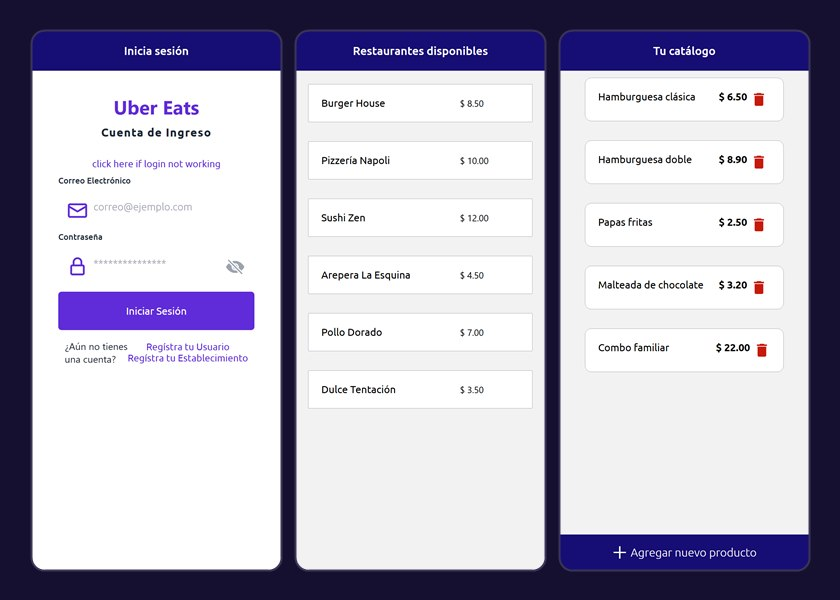
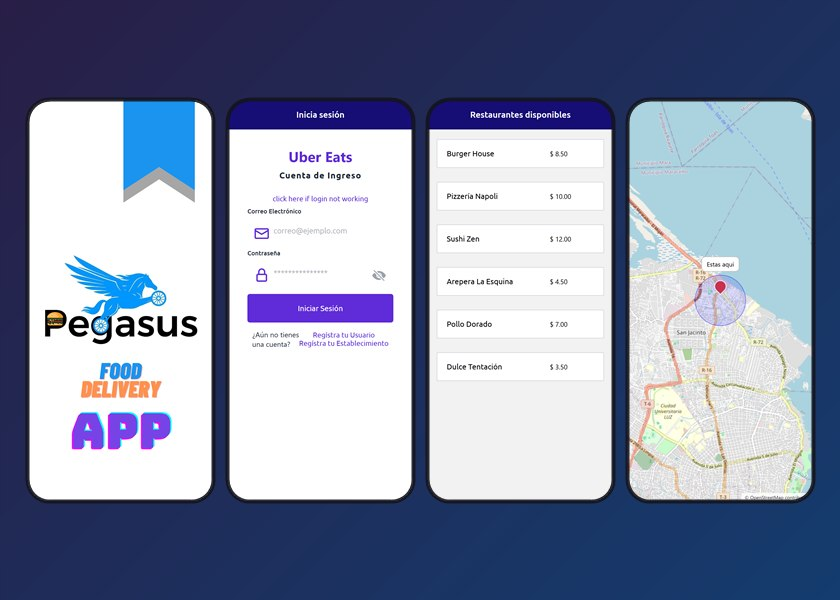
Add the splash screen and the map screen to the Pegasus card

diff --git a/src/constants/constants.js b/src/constants/constants.js
@@ -595,7 +595,7 @@ const mobileProjects = [
   {
     name: "Pegasus",
     description:
-      "Uber Eats-style food delivery app built with React Native and Expo for a university mobile development course, together with a classmate. Users sign in and browse the available restaurants; establishments register and manage their own product catalog (create, edit and delete). The delivery branches add a Google Maps screen and a Stripe payment prototype. It talks to a Node.js, Express and PostgreSQL REST API. The original backend is offline, so the screenshots, taken from the main branch, use sample data.",
+      "Uber Eats-style food delivery app built with React Native and Expo for a university mobile development course, together with a classmate. Users sign in and browse the available restaurants; establishments register and manage their own product catalog (create, edit and delete). The delivery branches add a Google Maps screen and a Stripe payment prototype. It talks to a Node.js, Express and PostgreSQL REST API. The original backend is offline, so the screenshots use sample data; the map screen is rendered with OpenStreetMap tiles in place of Google Maps, which needs an API key.",
     tags: [
       {
         name: "react native",
